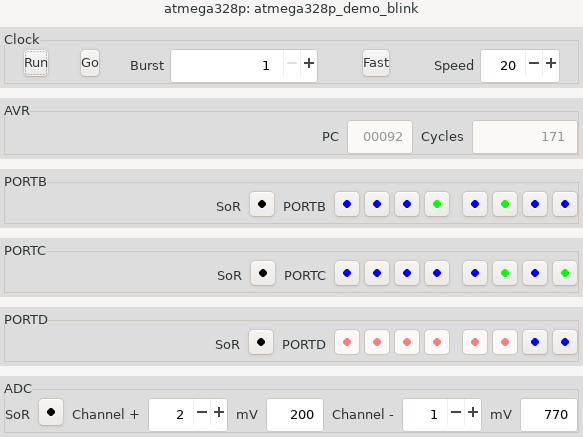
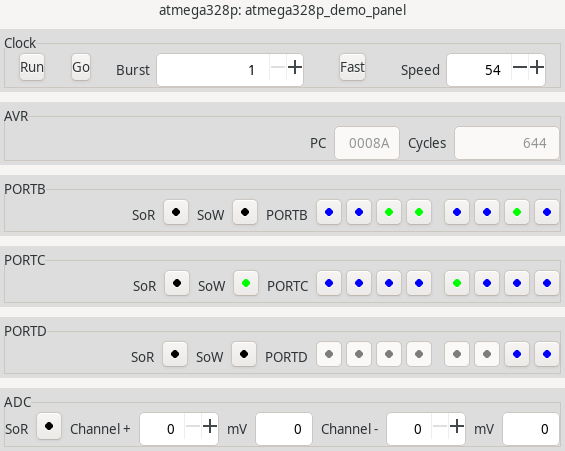
Update github front matter.

diff --git a/doc/Getting_Started.html b/doc/Getting_Started.html
@@ -31,6 +31,8 @@ from source can be found in the PDF manual or
 the Bulid Guide page of the github Wiki.
 Updated instructions for Windows are
 <A href="https://github.com/maxgerhardt/simavr">here.</A>
+Binaries for common hardware/OS combinations can be downloaded
+from the main Github site.  Look for "Actions".
 <P>
 Suppose you have downloaded and (if necessary) built simavr.
 Now what?
@@ -128,6 +130,12 @@ So
 will trace the state of pin 2 on port B, and execution of the
 interrupt handler for vector 3.
 <P>
+Changes to memory may also be traced, With run-avr, use the form:
+<PRE>
+  --add-trace name=[sram8|sram16]@addr
+</PRE>
+where the keyword select byte or word access.
+<P>
 VCD files for input must follow a convention for variable names
 so that they match the
 <I>printf()</I>
@@ -136,6 +144,10 @@ format
 The inserted values correspond to the last two arguments to
 <I>avr_io_getirq(),</I>
 described below.
+The simulator exits after reaching the end of a VCD input file,
+so it may be necessary to insert a dummy value change with a large
+time-stamp at the end.
+<P>
 If input files require translation,
 another program,
 <A href="http://vcdmaker.org/">
@@ -245,9 +257,9 @@ Buttons labelled "SoR" are for Stop-on-read: execution will
 be halted when the AVR reads that input source.
 The button changes from red to green when the halt occurs.
 A new input value can then be entered and execution continued.
+The GPIO ports have "SoW" (Stop-on-Write) buttons that work similarly.
 Use the Enter key after entering new ADC inputs,
 otherwise they are visible but not sent.
-The GPIO ports now also have "SoW" (Stop-on-Write) buttons that work similarly.
 <P>
 If <I>"--panel"</I> is used with <I>"--output"</I>,
 the inputs from the control panel are captured in a separate VCD file

diff --git a/README.md b/README.md
@@ -2,7 +2,7 @@ This repository is a fork from the original [here.](https://github.com/buserror/
 
 New Features
 ------------
-At the time of writing (December 2023) this fork contains some new or updated items.
+At the time of writing (May 2025) this fork contains some new or updated items.
 
 + A brief "Getting Started" guide, intended for new users.  See below, but the
 HTML file in the doc directory looks better.  Github's HTML processing is a little off.
@@ -55,9 +55,11 @@ you will also probably need the C library,
 Instructions for building
 <I>simavr</I>
 from source can be found in the PDF manual or
-the Bulid Guide page of the github Wiki.
+the Build Guide page of the github Wiki.
 Updated instructions for Windows are
 <A href="https://github.com/maxgerhardt/simavr">here.</A>
+Binaries for common hardware/OS combinations can be downloaded
+from the main Github site.  Look for "Actions".
 <P>
 Suppose you have downloaded and (if necessary) built simavr.
 Now what?
@@ -116,7 +118,7 @@ and
 <A href="https://sourceforge.net/projects/simutron/">
 <I>simutron</I>
 </A>
-They are both larger graphical circuit designer/emulator that include simavr
+They are both larger graphical circuit designer/emulators that include simavr
 as a component and have various input devices whose actions can be captured
 as VCD files.
 <P>
@@ -155,6 +157,12 @@ So
 will trace the state of pin 2 on port B, and execution of the
 interrupt handler for vector 3.
 <P>
+Changes to memory may also be traced, With run-avr, use the form:
+<PRE>
+  --add-trace name=[sram8|sram16]@addr
+</PRE>
+where the keyword select byte or word access.
+<P>
 VCD files for input must follow a convention for variable names
 so that they match the
 <I>printf()</I>
@@ -163,6 +171,10 @@ format
 The inserted values correspond to the last two arguments to
 <I>avr_io_getirq(),</I>
 described below.
+The simulator exits after reaching the end of a VCD input file,
+so it may be necessary to insert a dummy value change with a large
+time-stamp at the end.
+<P>
 If input files require translation,
 another program,
 <A href="http://vcdmaker.org/">
@@ -272,9 +284,9 @@ Buttons labelled "SoR" are for Stop-on-read: execution will
 be halted when the AVR reads that input source.
 The button changes from red to green when the halt occurs.
 A new input value can then be entered and execution continued.
+The GPIO ports have "SoW" (Stop-on-Write) buttons that work similarly.
 Use the Enter key after entering new ADC inputs,
 otherwise they are visible but not sent.
-The GPIO ports now also have "SoW" (Stop-on-Write) buttons that work similarly.
 <P>
 If <I>"--panel"</I> is used with <I>"--output"</I>,
 the inputs from the control panel are captured in a separate VCD file
